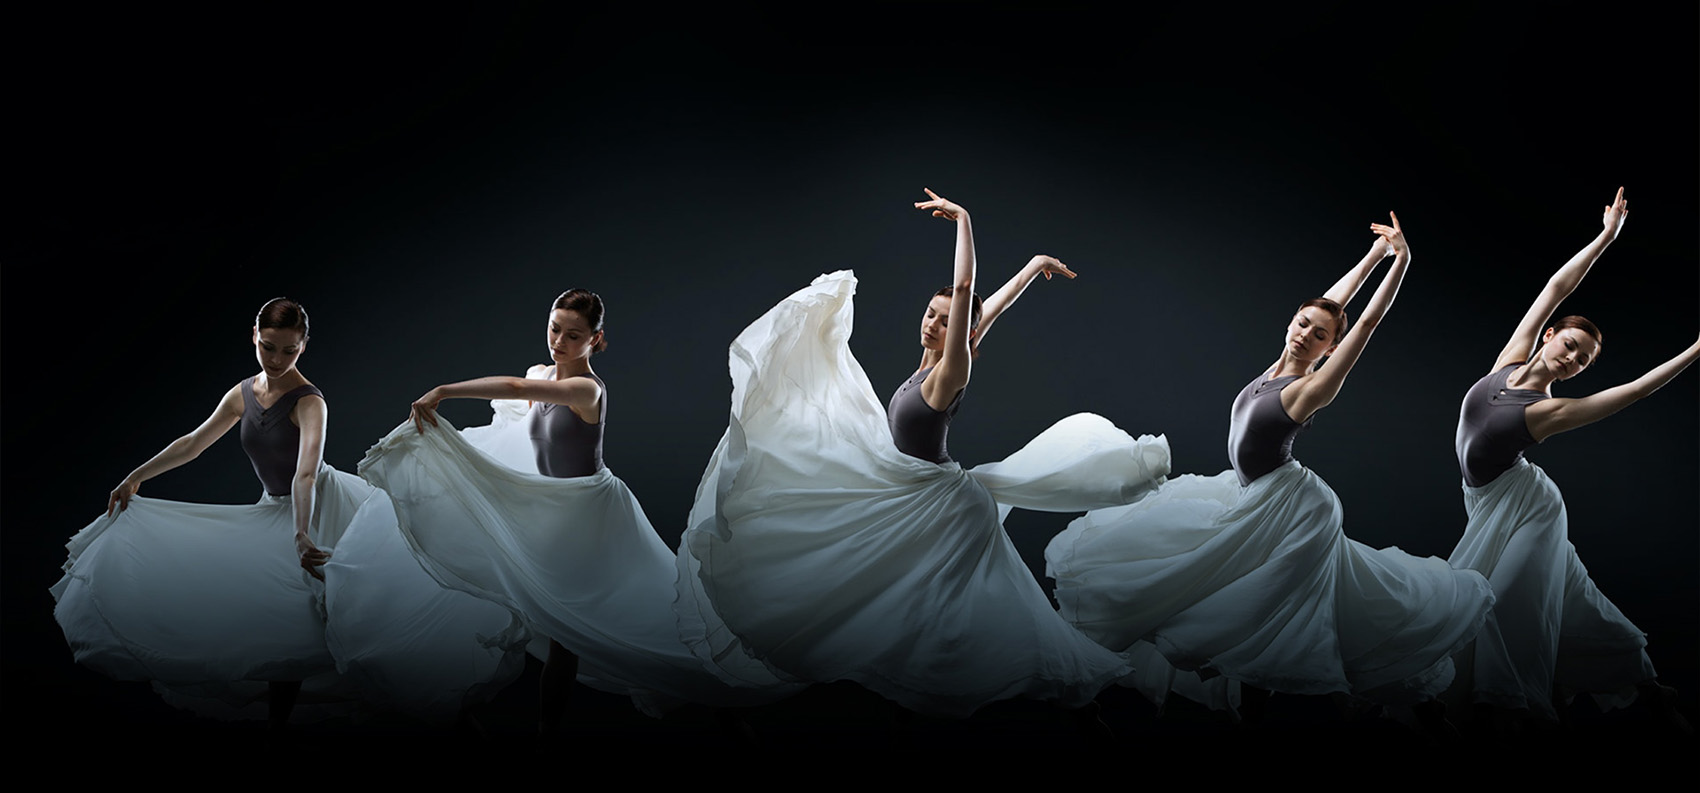
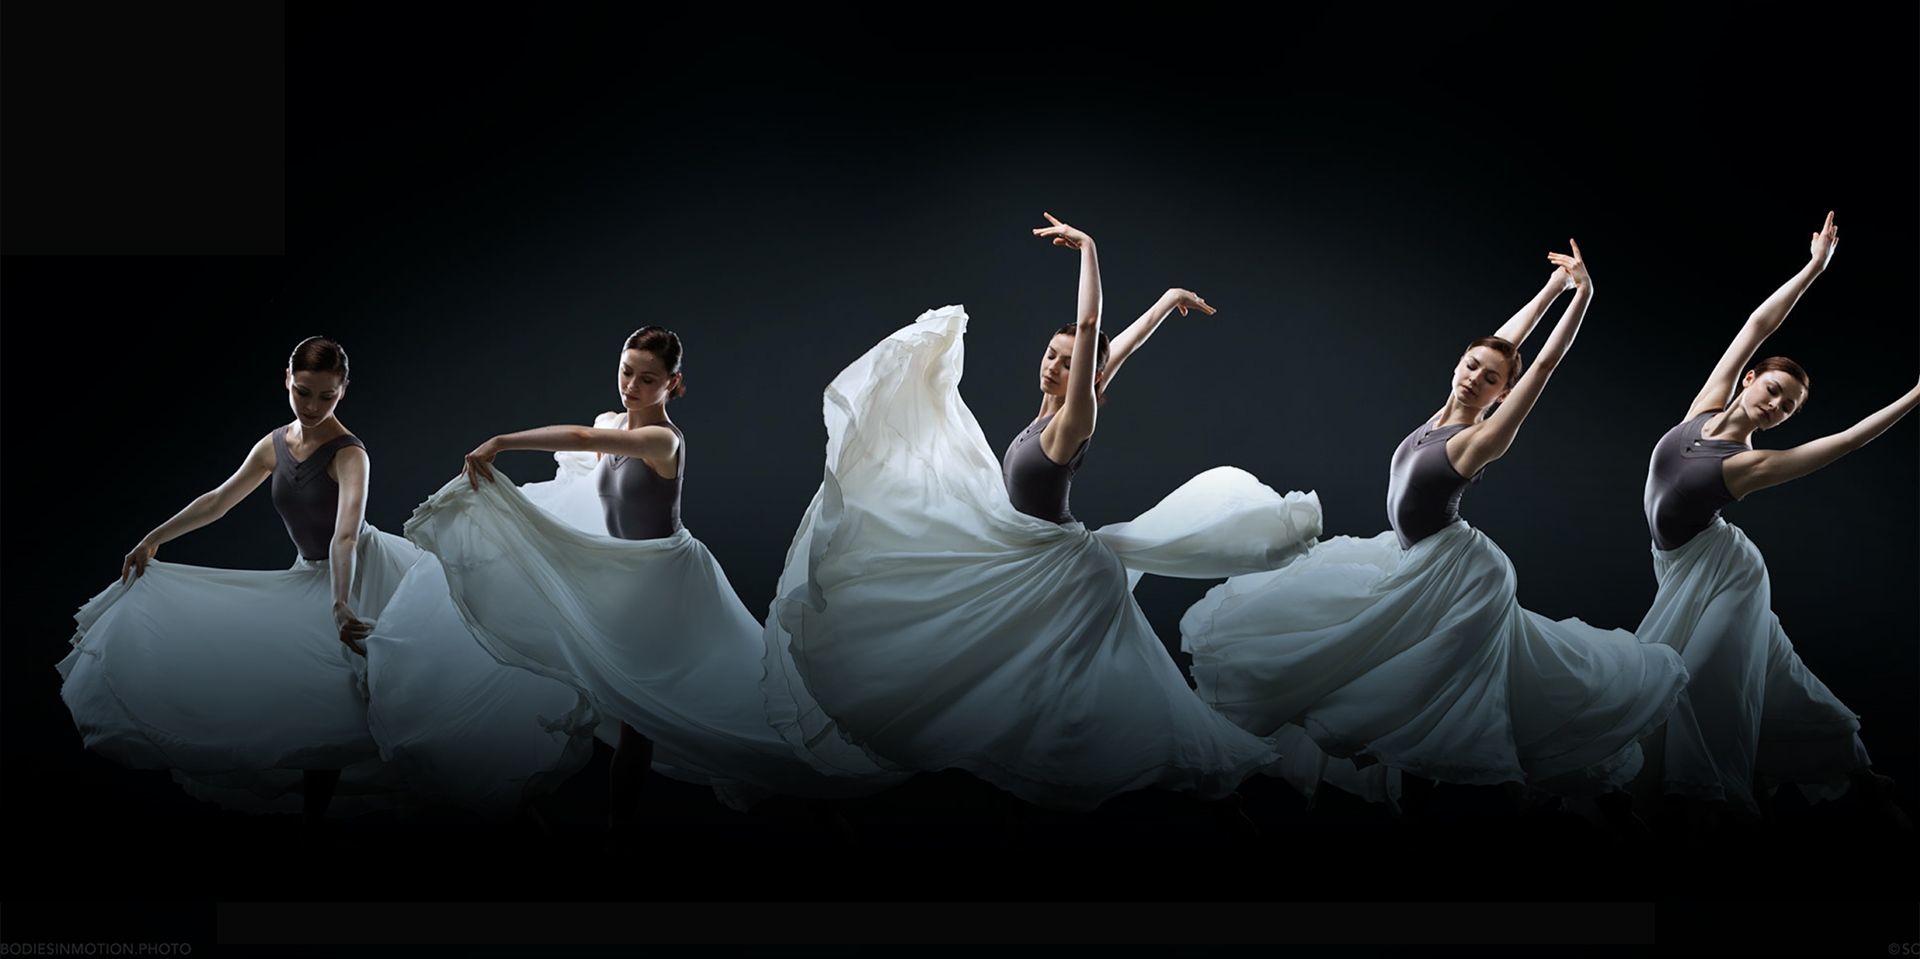
Work upgr

Changed region(s): [[0.0312, 0.2119, 1.0, 0.8777], [0.0, 0.9685, 0.0624, 0.9987]]

diff --git a/works.html b/works.html
@@ -24,9 +24,7 @@
             <a href="./story.html">Story</a>
           </li>
           <li class="left-item">
-            <a href="./form.html"
-              >Form</a
-            >
+            <a href="./form.html">Form</a>
           </li>
           <li class="right-item">
             <a href="./Video.html">Video</a>
@@ -66,11 +64,23 @@
       </ol>
       <h2>Listen some music and relax, while checking my homework</h2>
       <audio controls src="./Mozart.mp3"></audio>
-      <picture class="dance">
-        <source srcset="dance.jpg" media="(min-width: 600px)" />
-        <img src="./Dance.jpg" alt="MDN" />
-      </picture>
+      <div class="work_photo">
+        <picture class="dance">
+          <source
+            srcset="
+              Dance_320.jpg   320w,
+              Dance_800.jpg   800w,
+              Dance_1200.jpg 1200w
+            "
+            sizes="(min-width: 60rem) 70vw,
+                     (min-width: 40rem) 90vw,
+                     100vw"
+          />
+          <img src="Dance_320.jpg" alt="Image description" />
+        </picture>
+      </div>
     </main>
+
     <div class="footer_bottom section"></div>
     <div class="agileits-w3layouts-footer">
       <div class="container">

diff --git a/Css.css b/Css.css
@@ -89,19 +89,23 @@ form {
   margin-right: auto;
   width: 20%;
 }
-.dance {
-  display: block;
-  margin-left: auto;
-  margin-right: auto;
-  width: 90%;
-}
 .flex_iframe {
   display: flex;
   justify-content: center;
 }
+.work_photo{
+  display: flex;
+	flex-flow: row nowrap;
+	justify-content: center;
+	margin-left: auto;
+	margin-right: auto;
+	padding: 20px calc(50vw - 250px);
+	background-position: center top;
+	box-sizing: border-box;
+}
 main {
-  font-size: 1cm;
-  background-color: #22655b;
+  font-size: 2em;
+  background:#22655b;
 }
 body {
   font-family: "Segoe UI", Tahoma, Verdana, sans-serif;
